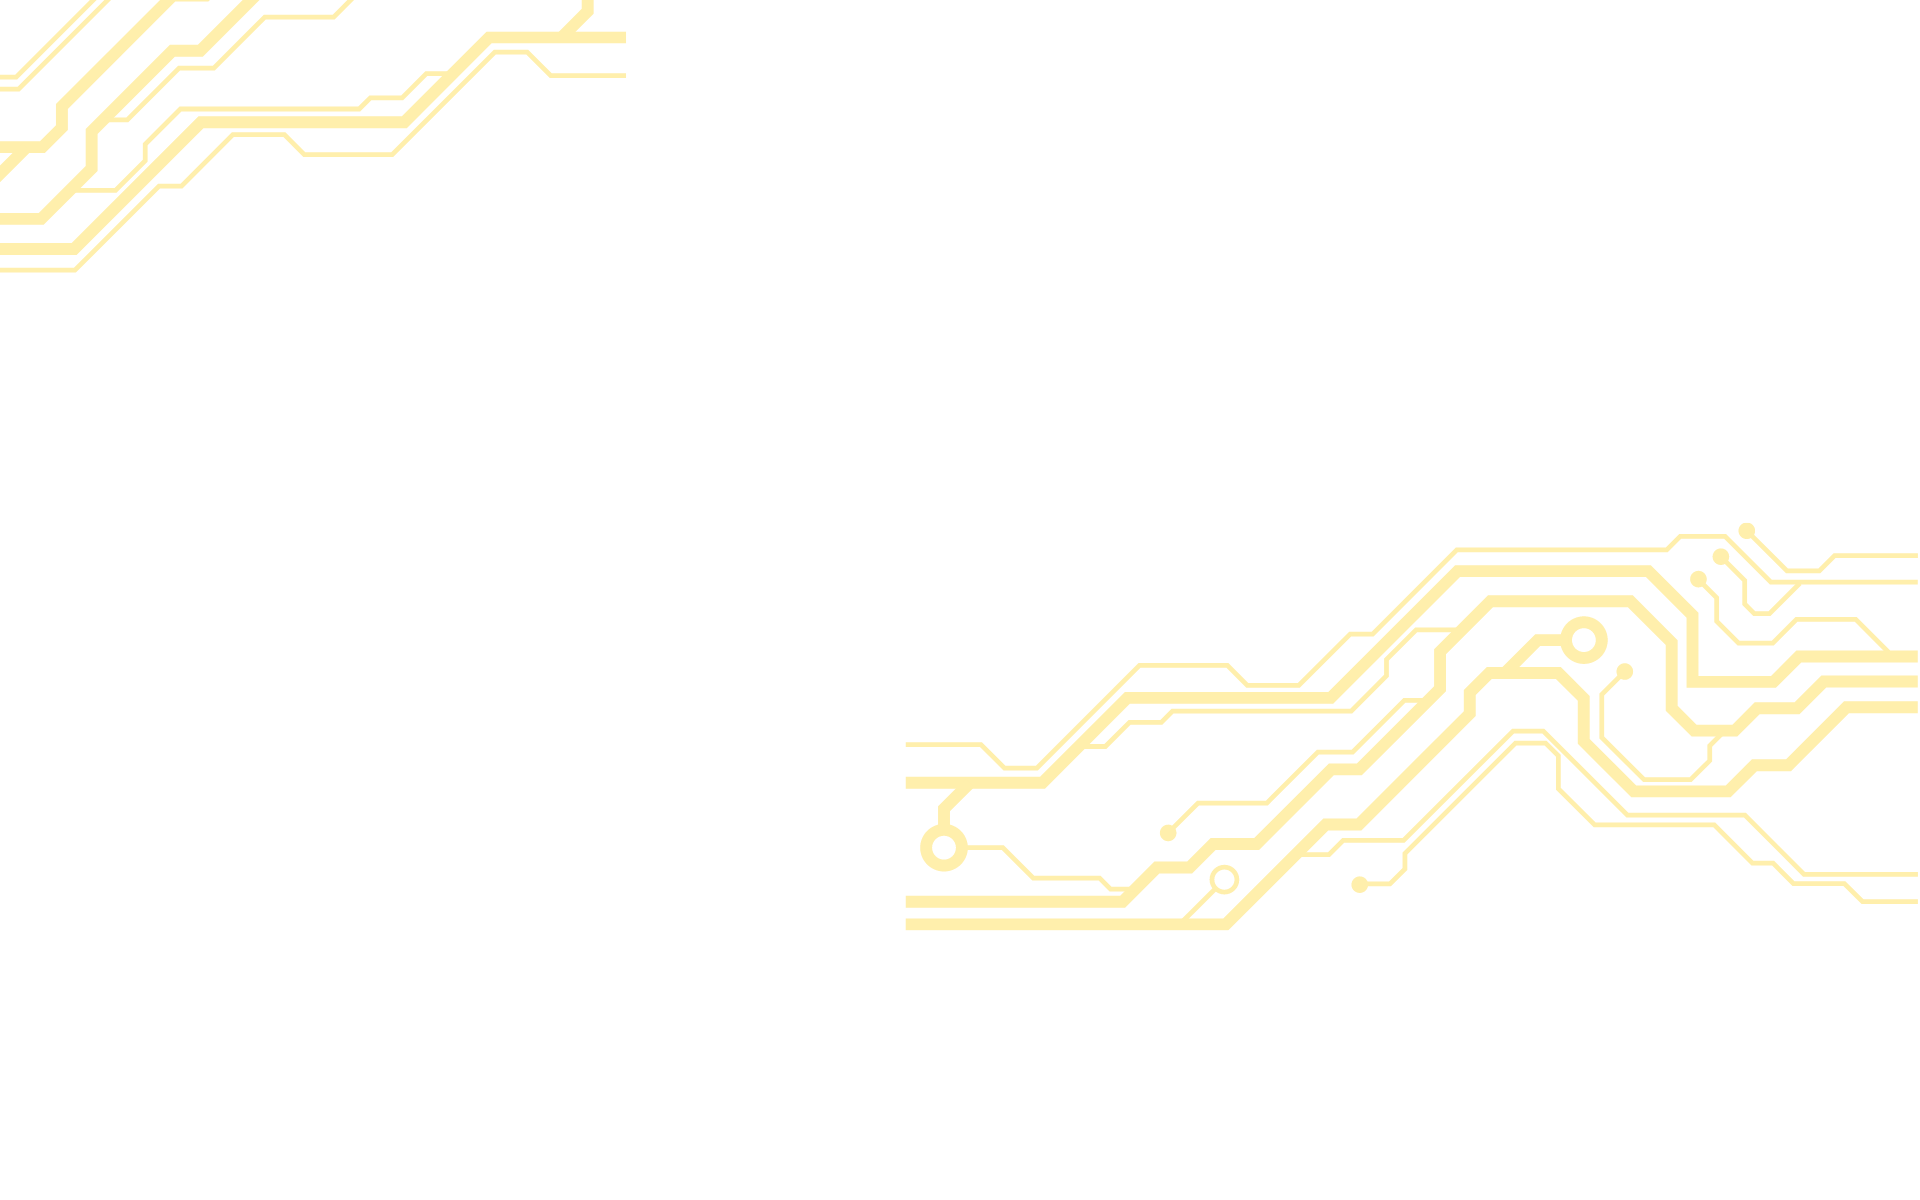
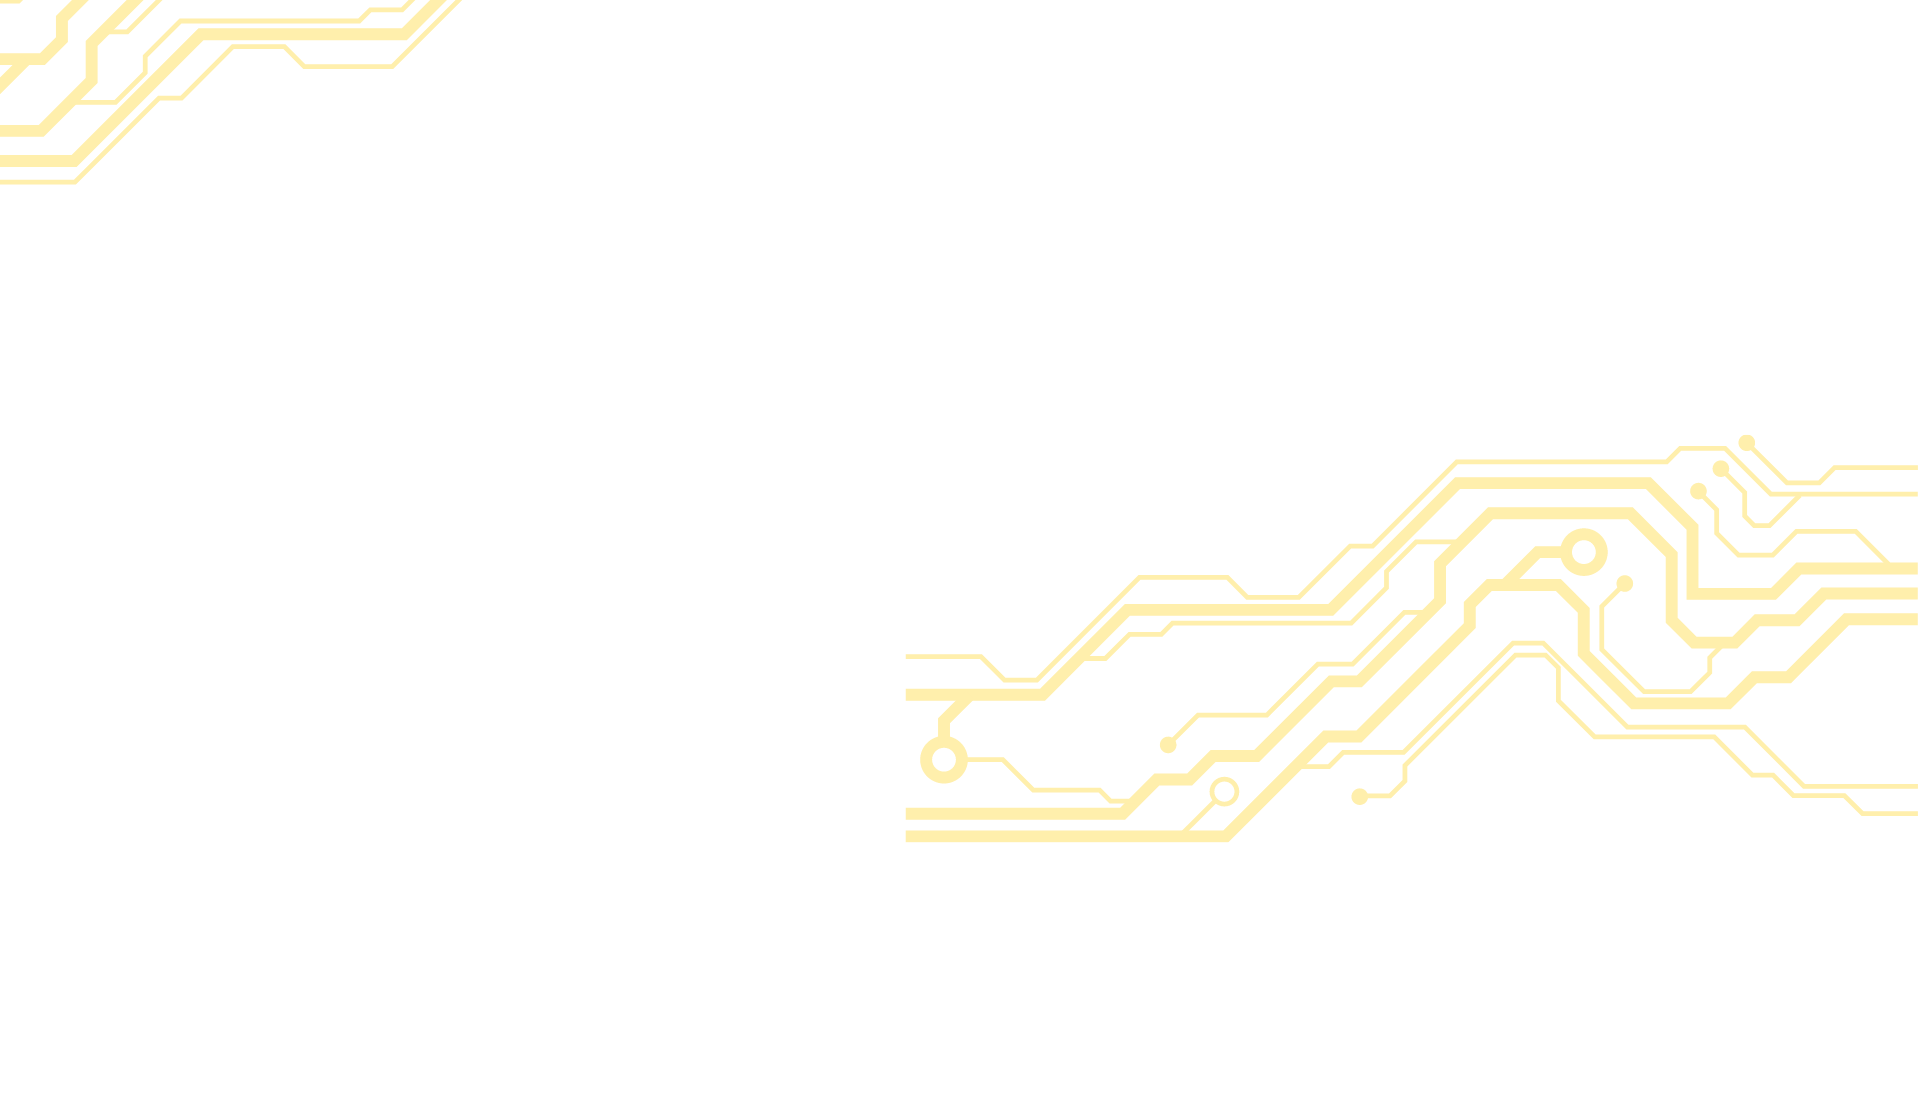
gremlin returns

Changed region(s): [[0.4688, 0.3975, 1.0, 0.795], [0.0, 0.0, 0.3125, 0.2446]]

diff --git a/src/Pages/05-Submit/Submit.scss b/src/Pages/05-Submit/Submit.scss
@@ -1,19 +1,23 @@
 /* -----------Submit - Page Container & Page Globals--------------------------- */
+.submit-page-container {
+  background-image: url("../../Components/VisualAssets/BackgroundsPlus/ProjectSubmitBG.png");
+}
 
-.submit-page-container{
-  font-family: 'Poppins',sans-serif;
+.submit-page-container {
+  font-family: "Poppins", sans-serif;
   position: absolute;
-  right:0;
+  right: 0;
   top: 1.5em;
   left: 0;
   bottom: 0;
 }
 
-.submit-page-container input, textarea{
+.submit-page-container input,
+textarea {
   min-height: 1.6em;
   margin-top: 10px;
 }
-.submit-page-container button{
+.submit-page-container button {
   background-color: rgba(0, 0, 0, 0);
   color: white;
   border: 1px solid #ffde59;
@@ -25,75 +29,73 @@
   cursor: pointer;
   /* height: 1.2em; */
 }
-.submit-page-container button:hover{
+.submit-page-container button:hover {
   background-color: #ffde59;
   color: black;
 }
 /* -----------Submit - Header--------------------------- */
 
-.submit-header{
-  font-family: 'Poppins', sans-serif;
+.submit-header {
+  font-family: "Poppins", sans-serif;
   width: 10vw;
 }
 
-.submit-header-line{
+.submit-header-line {
   position: fixed;
-  bottom:0;
+  bottom: 0;
   top: 1.9em;
-  left:7em;
-
+  left: 7em;
 }
 
-.submit-header-text{
+.submit-header-text {
   transform: rotate(-90deg);
   transform-origin: top left;
   position: fixed;
-  bottom:-1em;
-  left:0.25em;
+  bottom: -1em;
+  left: 0.25em;
   font-size: calc(3em + 1vw);
 }
 
 /* -----------Submit - Form Messages--------------------------- */
 
-.submit-messages-container{
+.submit-messages-container {
   position: fixed;
   top: 0em;
   left: 8em;
   display: flex;
   height: 4.5em;
-
 }
 
-.submit-messages-text{
+.submit-messages-text {
   color: black;
-  font-family: 'Poppins', sans-serif;
+  font-family: "Poppins", sans-serif;
   font-size: 1em;
 }
 
-.submit-messages-container-sucess{
+.submit-messages-container-sucess {
   background-color: rgba(251, 249, 152, 0.8);
   width: max-content;
   align-self: flex-end;
 }
-.submit-messages-container-failure{
+.submit-messages-container-failure {
   background-color: rgba(251, 152, 152, 0.8);
   width: max-content;
   align-self: flex-end;
 }
 
-.submit-messages-line{
+.submit-messages-line {
   position: fixed;
   top: 5em;
   left: 6.9em;
   height: 2em;
 }
 /* -----------Submit - Form Container--------------------------- */
-.submit-form-container{
+.submit-form-container {
   margin-left: 9em;
   margin-top: 6em;
   /* height: 75vh; */
 }
-.submit-form-form{
+.submit-form-form {
   display: flex;
   flex-direction: column;
   flex-wrap: wrap;
@@ -101,10 +103,11 @@
   justify-content: space-around;
   /* grid-template-columns: 1fr 1fr 1fr; */
 }
-.submit-form-form label{
+.submit-form-form label {
   text-transform: uppercase;
 }
-.submit-form-form label, input{
+.submit-form-form label,
+input {
   display: block;
 }
 /* -----------Submit - Form Column Details--------------------------- */
@@ -112,37 +115,36 @@
 .projectName-input input,
 .problemStatement-input textarea,
 .additionalInformation-input textarea,
-.weekNumber-input input, 
+.weekNumber-input input,
 .contributors-input input,
 .githubUrl-input input,
-.appDeploymentUrl-input input{
+.appDeploymentUrl-input input {
   width: 20vw;
 }
 
-
-.contributors-input ul{
+.contributors-input ul {
   flex-direction: column;
-  width:max-content;
+  width: max-content;
   padding-top: 0.5em;
 }
-.contributors-input li{
+.contributors-input li {
   padding-top: 0.5em;
   align-self: flex-end;
 }
 
-.contributors-input{
+.contributors-input {
   display: grid;
   width: 20vw;
 }
-.contributors-input label{
+.contributors-input label {
   grid-row: 1;
 }
-.contributors-input input{
+.contributors-input input {
   grid-column: 1;
   grid-row: 2;
   width: 17vw;
 }
-.add{
+.add {
   grid-column: 1;
   grid-row: 2;
   justify-self: end;
@@ -153,30 +155,27 @@
   display: inline-block;
 } */
 
-
-
-
 /* -----------Submit - Form Column Images--------------------------- */
 /* input[type="file"] {
   display: none;
 } */
-.fileInput-button{
+.fileInput-button {
   background-color: rgba(0, 0, 0, 0);
   color: white;
   border: 1px solid #ffde59;
   cursor: pointer;
   width: 8vw;
-  text-align: center ;
+  text-align: center;
   align-self: center;
 }
-.fileInput-button:hover{
+.fileInput-button:hover {
   background-color: #ffde59;
   color: black;
 }
 .appImage-input,
 .additionalAppImage1-input,
 .additionalAppImage2-input,
-.additionalAppImage3-input{
+.additionalAppImage3-input {
   display: inline;
   /* display: flex;
   flex-direction: column ; */
@@ -184,7 +183,7 @@
 .appImage-input-image,
 .additionalAppImage1-input-image,
 .additionalAppImage2-input-image,
-.additionalAppImage3-input-image{
+.additionalAppImage3-input-image {
   max-width: 7vw;
   max-height: 7vw;
   object-fit: cover;
@@ -193,7 +192,7 @@
 
 /* -----------Submit - Form Column Tech Used--------------------------- */
 
-.builtUsing-input{
+.builtUsing-input {
   display: flex;
   flex-direction: column;
   flex-wrap: wrap;
@@ -203,9 +202,8 @@
   /* grid-gap: 10px;
   grid-template-columns: 1fr 1fr; */
   /* grid-template-columns: repeat(auto-fill, minmax(100px, 1fr)); */
-
 }
-.builtUsing-input-title{
+.builtUsing-input-title {
   text-align: center;
   /* grid-column: 1/3;
   grid-row: 1; */
@@ -262,7 +260,7 @@
   width: 4em;
   transition-duration: 0.2s;
   transform-origin: 50% 50%;
-  filter:  invert(1) grayscale(1);
+  filter: invert(1) grayscale(1);
 }
 
 :checked + .tech-used {
@@ -280,7 +278,7 @@
   transform: scale(0.9);
   box-shadow: 0 0 5px #ffde59;
   z-index: -1;
-  filter:  invert(0) grayscale(0);
+  filter: invert(0) grayscale(0);
 }
 
 .form-input-image {
@@ -290,8 +288,7 @@
 }
 
 /* ----------------- Submit Button -------*/
-.submit-page-container .project-submit{
-
+.submit-page-container .project-submit {
   width: 5em;
   height: 1.7em;
   position: absolute;

diff --git a/src/Pages/02-Bootcampers/Bootcampers.tsx b/src/Pages/02-Bootcampers/Bootcampers.tsx
@@ -21,15 +21,17 @@ const ProfilesShowcase = () => {
 
   return (
     <>
-    <LeftVerticalTitle title="Bootcampers"></LeftVerticalTitle>
-    <HorizontalCircuit className="circuit-line"></HorizontalCircuit>
-      <section className="bootcampers-showcase-container">
-        <section className="bootcampers-items-container">
-          {data.map((user,i) => (
-            <Users data={user} key={i} />
-          ))}
+      <div className="bootcampers-page-container">
+        <LeftVerticalTitle title="Bootcampers"></LeftVerticalTitle>
+        <HorizontalCircuit className="circuit-line-left"></HorizontalCircuit>
+        <section className="bootcampers-showcase-container">
+          <section className="bootcampers-items-container">
+            {data.map((user, i) => (
+              <Users data={user} key={i} />
+            ))}
+          </section>
         </section>
-      </section>
+      </div>
     </>
   );
 };

diff --git a/src/Pages/04-User/04-Signup/Signup.tsx b/src/Pages/04-User/04-Signup/Signup.tsx
@@ -2,7 +2,7 @@ import React, { useState } from "react";
 import axios from "axios";
 import { API_URL } from "../../../config";
 import "../04-User-Base.scss";
-import pinhead from "../../../Components/VisualAssets/BackgroundsPlus/User Signup PinHead.png";
+import pinhead from "../../../Components/VisualAssets/BackgroundsPlus/PinHead.png";
 import LeftVerticalTitle from "../../../Components/ReactComponents/LeftVerticalTitle/LeftVerticalTitle";
 
 const Signup = () => {

diff --git a/src/Pages/04-User/04-Login/Login.tsx b/src/Pages/04-User/04-Login/Login.tsx
@@ -3,7 +3,7 @@ import axios from "axios";
 import { useHistory } from "react-router-dom";
 import { API_URL } from "../../../config";
 import "../04-User-Base.scss";
-import pinhead from "../../../Components/VisualAssets/BackgroundsPlus/User Signup PinHead.png";
+import pinhead from "../../../Components/VisualAssets/BackgroundsPlus/PinHead.png";
 import LeftVerticalTitle from "../../../Components/ReactComponents/LeftVerticalTitle/LeftVerticalTitle";
 
 type Props = {

diff --git a/src/Pages/02-Bootcampers/Bootcampers.scss b/src/Pages/02-Bootcampers/Bootcampers.scss
@@ -1,11 +1,11 @@
 @import "../../Variables.scss";
 
-.circuit-container {
-  position: relative;
-  top: 175px;
-  max-width: 30vw;
-  left: 175px;
-  // @include circuit-container-left;
+.bootcampers-page-container {
+  background-image: url("../../Components/VisualAssets/BackgroundsPlus/ProjectSubmitBG.png");
+}
+
+.circuit-line-left {
+  @include circuit-container-left;
 }
 
 .bootcampers-showcase-container {

diff --git a/src/Pages/00-Homepage/Homepage.scss b/src/Pages/00-Homepage/Homepage.scss
@@ -10,10 +10,10 @@ body {
 }
 
 .wrapper {
-  top: 80px;
+  // top: 55px;
   position: relative;
   display: grid;
-  height: 90vh;
+  height: 100vh;
   grid-template-columns: 0.25fr 0.75fr 0.8fr 0.2fr 0.8fr 0.2fr 1.6fr 1.2fr 0.2fr 0.2fr 1fr 0.8fr 0.1fr;
   grid-template-rows: 1fr 0.2fr 1fr 1fr 1fr 2fr 1fr 0.2fr 1fr 1fr;
   grid-template-areas:

diff --git a/src/Pages/04-User/04-User-Base.scss b/src/Pages/04-User/04-User-Base.scss
@@ -1,6 +1,10 @@
 @import "../../Variables.scss";
 
 .user-page-container {
+  background-image: url("../../Components/VisualAssets/BackgroundsPlus/UserSignupBG.png");
+}
+
+.user-page-container {
   display: grid;
   max-height: 90vw;
 }
